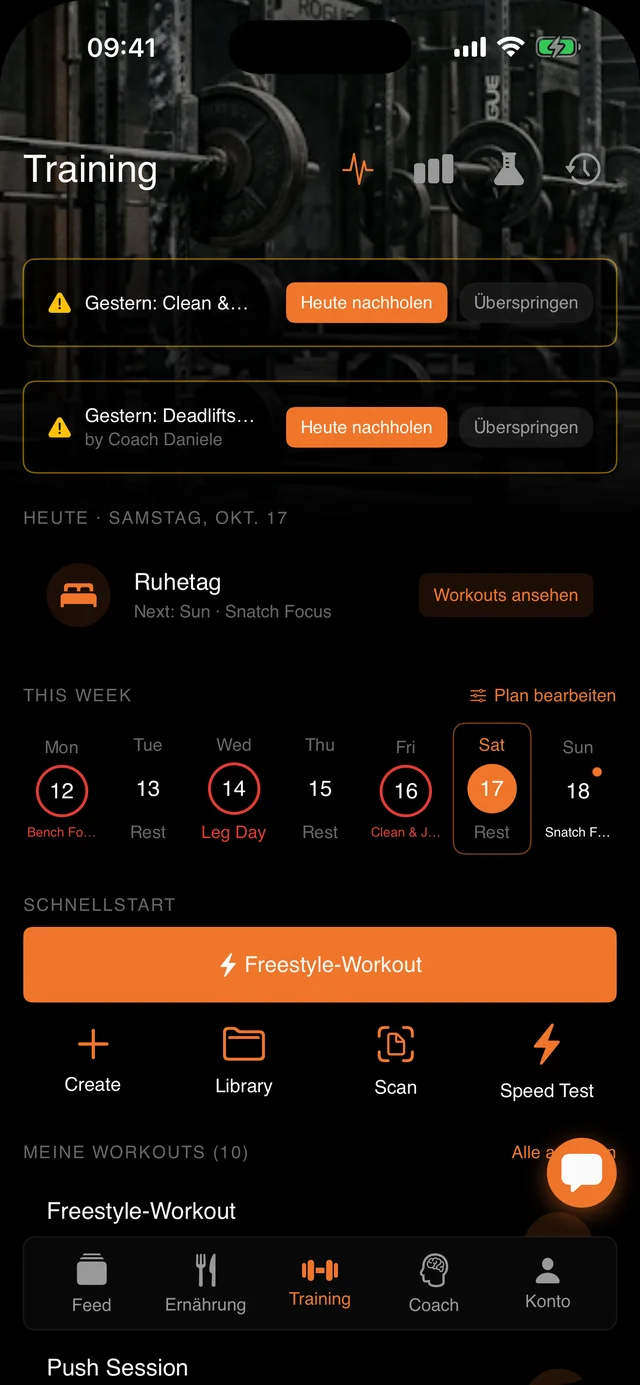
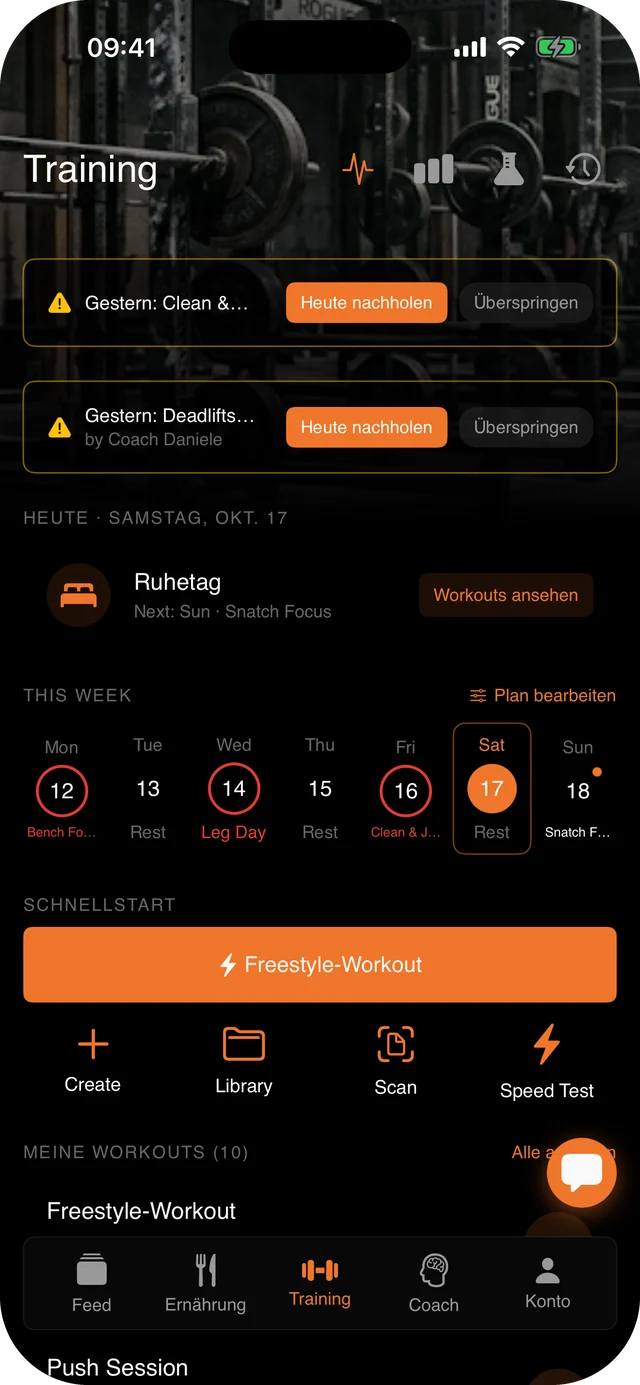
feat(schweiz): helle Screens auf Studiofoto, Mitglieder-App mit drei ganzen iPhones
Die hellen Enterprise-Screens gingen auf dem hellen Seitengrund unter. Jeder
liegt jetzt auf einem abgedunkelten Foto aus /images/gym, mit Rand und
Schatten. Die Mitglieder-App zeigt drei vollständige iOS-Screens (Training,
Deadlift-Session, Ernährung) mit Gehäuserand, statt zwei oben abgeschnittener.
Die Handy-Webps haben jetzt transparente Ecken.

diff --git a/src/pages/SchweizPage.jsx b/src/pages/SchweizPage.jsx
@@ -300,25 +300,41 @@ function Dunning() {
   )
 }
 
+/* A light product screen on a dark studio photo. Owner, 2026-10-18: the bright
+   Enterprise screens vanished against the light page, so each one now floats
+   on a darkened photo from /images/gym, like the dark zone on the home page. */
+function OnPhoto({ photo, src, alt }) {
+  return (
+    <div className="absolute inset-0 isolate">
+      <img src={photo} alt="" aria-hidden="true" loading="lazy" className="absolute inset-0 -z-10 h-full w-full object-cover" />
+      <div className="absolute inset-0 -z-10 bg-gradient-to-br from-night/60 via-night/30 to-night/75" aria-hidden="true" />
+      <div className="absolute inset-4 sm:inset-8 overflow-hidden rounded-xl ring-1 ring-white/15 shadow-[0_30px_80px_-20px_rgba(0,0,0,0.8)]">
+        <img src={src} alt={alt} loading="lazy" className="h-full w-full object-cover object-left-top" />
+      </div>
+    </div>
+  )
+}
+
+/* Three whole iOS screens (simulator, 2026-10-17), not cropped at the top. */
+const PHONES = [
+  ['/images/coach/app-mobile-training.webp', 'Mitglieder-App: Trainingswoche, Schnellstart und eigene Workouts'],
+  ['/images/coach/app-mobile-workout.webp', 'Mitglieder-App: Training läuft, Sätze, Gewicht und Wiederholungen'],
+  ['/images/coach/app-mobile-nutrition.webp', 'Mitglieder-App: Kalorien, Makros und Mahlzeiten des Tages'],
+]
+
 function Phones() {
   return (
-    <div className="absolute inset-0 flex items-end justify-center gap-4 sm:gap-6 pt-8 px-6 bg-gradient-to-b from-night to-graphite">
-      <div
-        className="absolute inset-x-[15%] bottom-0 h-2/3 bg-accent/25 blur-[90px] rounded-full pointer-events-none"
-        aria-hidden="true"
-      />
-      <img
-        src="/images/coach/app-mobile-workout.webp"
-        alt="Mitglieder-App: Training läuft, Sätze, Gewicht und Wiederholungen"
-        loading="lazy"
-        className="relative w-[38%] max-w-[15rem] rounded-t-[1.6rem] border border-white/10 border-b-0 shadow-2xl"
-      />
-      <img
-        src="/images/coach/app-mobile-training.webp"
-        alt="Mitglieder-App: Trainingswoche, Schnellstart und eigene Workouts"
-        loading="lazy"
-        className="relative w-[38%] max-w-[15rem] translate-y-6 rounded-t-[1.6rem] border border-white/10 border-b-0 shadow-2xl"
-      />
+    <div className="absolute inset-0 isolate flex items-center justify-center gap-3 sm:gap-5 px-4">
+      <img src="/images/gym/strength-dusk.webp" alt="" aria-hidden="true" loading="lazy" className="absolute inset-0 -z-10 h-full w-full object-cover" />
+      <div className="absolute inset-0 -z-10 bg-gradient-to-b from-night/50 via-night/30 to-night/80" aria-hidden="true" />
+      {PHONES.map(([src, alt], i) => (
+        <div
+          key={src}
+          className={`h-[88%] aspect-[640/1385] rounded-[16%/7.4%] bg-neutral-900 p-[2.2%] ring-1 ring-white/30 shadow-[0_24px_50px_-10px_rgba(0,0,0,0.85)] ${i === 1 ? 'z-10 scale-105' : ''}`}
+        >
+          <img src={src} alt={alt} loading="lazy" className="h-full w-full rounded-[14%/6.5%]" />
+        </div>
+      ))}
     </div>
   )
 }
@@ -339,14 +355,17 @@ function Swiss() {
         title="Gebaut für Schweizer Studios."
         accent="Franken, MWST, QR-Rechnung, Treuhänder. Von Anfang an."
       />
-      <Reveal className="shot relative rounded-2xl overflow-hidden mt-14 max-w-6xl mx-auto">
-        <div className="shot-bar" aria-hidden="true"><i /><i /><i /></div>
-        <img
-          src="/images/surfaces/accounting-de.webp"
-          alt="Buchhaltung in Prometheus: Lieferantenrechnungen in CHF, MWST-Abrechnung, Export für den Treuhänder"
-          loading="lazy"
-          className="w-full block"
-        />
+      <Reveal className="relative isolate overflow-hidden rounded-3xl mt-14 max-w-6xl mx-auto p-4 sm:p-10 bg-night">
+        <img src="/images/gym/reception-dusk.webp" alt="" aria-hidden="true" loading="lazy" className="absolute inset-0 -z-10 h-full w-full object-cover" />
+        <div className="absolute inset-0 -z-10 bg-gradient-to-br from-night/60 via-night/30 to-night/75" aria-hidden="true" />
+        <div className="overflow-hidden rounded-xl ring-1 ring-white/15 shadow-[0_30px_80px_-20px_rgba(0,0,0,0.8)]">
+          <img
+            src="/images/surfaces/accounting-de.webp"
+            alt="Buchhaltung in Prometheus: Lieferantenrechnungen in CHF, MWST-Abrechnung, Export für den Treuhänder"
+            loading="lazy"
+            className="w-full block"
+          />
+        </div>
       </Reveal>
       <div className="grid sm:grid-cols-2 lg:grid-cols-3 gap-4 mt-6">
         {items.map(({ icon: Icon, title, text }, i) => (
@@ -493,7 +512,7 @@ export default function SchweizPage({ club = false }) {
           eyebrow="Übersicht"
           title="Dein Studio auf einem Bildschirm."
           accent="Vom Handy oder vom Rechner."
-          media={<img src="/images/enterprise/desk-de.webp" alt="Prometheus Desk: Check-in, Kasse in CHF, Kurse des Tages" loading="lazy" className="w-full h-full object-cover object-top" />}
+          media={<OnPhoto photo="/images/gym/front-desk.webp" src="/images/enterprise/desk-de.webp" alt="Prometheus Desk: Check-in, Kasse in CHF, Kurse des Tages" />}
         >
           <p>Check-in, Kasse, Kurse, offene Zahlungen und wer heute arbeitet. Der Schichtplan wird zur Lohnabrechnung, die Kasse zur Buchhaltung.</p>
           <p>Und Prometheus zeigt dir, wer seltener kommt, bevor er kündigt.</p>
@@ -503,7 +522,7 @@ export default function SchweizPage({ club = false }) {
           eyebrow="Coach Web für deine Trainer"
           title="Deine Trainer planen."
           accent="Du siehst, wer sich reinhängt."
-          media={<img src="/images/coach/web-de.webp" alt="Coach Web: Trainingsplan aus der Übungsbibliothek bauen" loading="lazy" className="w-full h-full object-cover object-top" />}
+          media={<OnPhoto photo="/images/gym/coaching-floor.webp" src="/images/coach/web-de.webp" alt="Coach Web: Trainingspläne aus der Übungsbibliothek bauen" />}
         >
           <p>Jeder Trainer bekommt Coach Web im Browser. Er baut Pläne aus der Übungsbibliothek und weist sie zu, der Plan erscheint sofort in der App des Mitglieds, und jeder Satz kommt zurück. Videos prüfen und Ernährung begleiten gehören dazu.</p>
           <p>Du siehst pro Trainer, wie schnell er antwortet, wie viele Pläne er von sich aus schreibt und wie seine Mitglieder ihn bewerten. So erkennst du, wer mit Herzblut dabei ist, ohne danebenzustehen.</p>
@@ -513,7 +532,7 @@ export default function SchweizPage({ club = false }) {
           eyebrow="Rundgänge"
           title="Garderobe sauber, belegt."
           accent="Statt Strichliste an der Tür."
-          media={<img src="/images/enterprise/rounds-de.webp" alt="Rundgänge: Garderoben-Turnus und WC-Rundgang mit Erfüllung pro Bereich" loading="lazy" className="w-full h-full object-cover object-top" />}
+          media={<OnPhoto photo="/images/gym/hall-opening.webp" src="/images/enterprise/rounds-de.webp" alt="Rundgänge: Verwarnungs-Dossier und Erfüllung pro Bereich" />}
         >
           <p>Garderoben-Turnus, WC-Rundgang, Getränke-Check: Du legst fest, was wann zu tun ist. Dein Team scannt vor Ort den QR-Code und hakt ab. Wer in Sekunden durch eine Liste klickt, fällt auf.</p>
           <p>Meldet ein Mitglied eine schmutzige Dusche, landet das im selben Bereich. Du siehst, wann zuletzt kontrolliert wurde und von wem.</p>

diff --git a/TESTING.md b/TESTING.md
@@ -280,3 +280,10 @@ Bekannt: Kategorien in der Kreditoren-Demo sind englisch („Goods & consumables
 
 ## OFFEN — /schweiz/ Preise: KI-Assistent im Abo (2026-10-18)
 1. prometheus.coach/schweiz/#preise → Satz „Die App für deine Mitglieder, Coach Web für deine Trainer und der KI-Assistent sind dabei.“
+
+## OFFEN — /schweiz/: helle Screens auf Studiofoto, drei ganze iOS-Handys (2026-10-18)
+Owner: helle Enterprise-Screens gingen auf dem hellen Seitenhintergrund unter. Jetzt liegt jeder auf einem abgedunkelten Foto aus /images/gym (Desk → Empfang, Coach Web → Trainingsfläche, Rundgänge → Halle, Buchhaltung → Empfang am Abend). Die Mitglieder-App zeigt drei vollständige iPhones (Training, Deadlift-Session, Ernährung) mit Gehäuserand statt zwei oben abgeschnittener.
+1. prometheus.coach/schweiz/ am Rechner → Desk, Coach Web, Rundgänge, Buchhaltung: Screenshot klar abgesetzt, Foto dahinter sichtbar.
+2. Mitglieder-App → drei ganze Handys, nichts oben abgeschnitten, Ecken rund ohne schwarze Zwickel.
+3. Dasselbe am iPhone: Handys nicht zu klein, nichts läuft über den Rand.
+4. /online-coaching-software, /video-review, /nutrition: Handybilder haben jetzt transparente Ecken, keine schwarzen Ecken auf hellem Grund.
